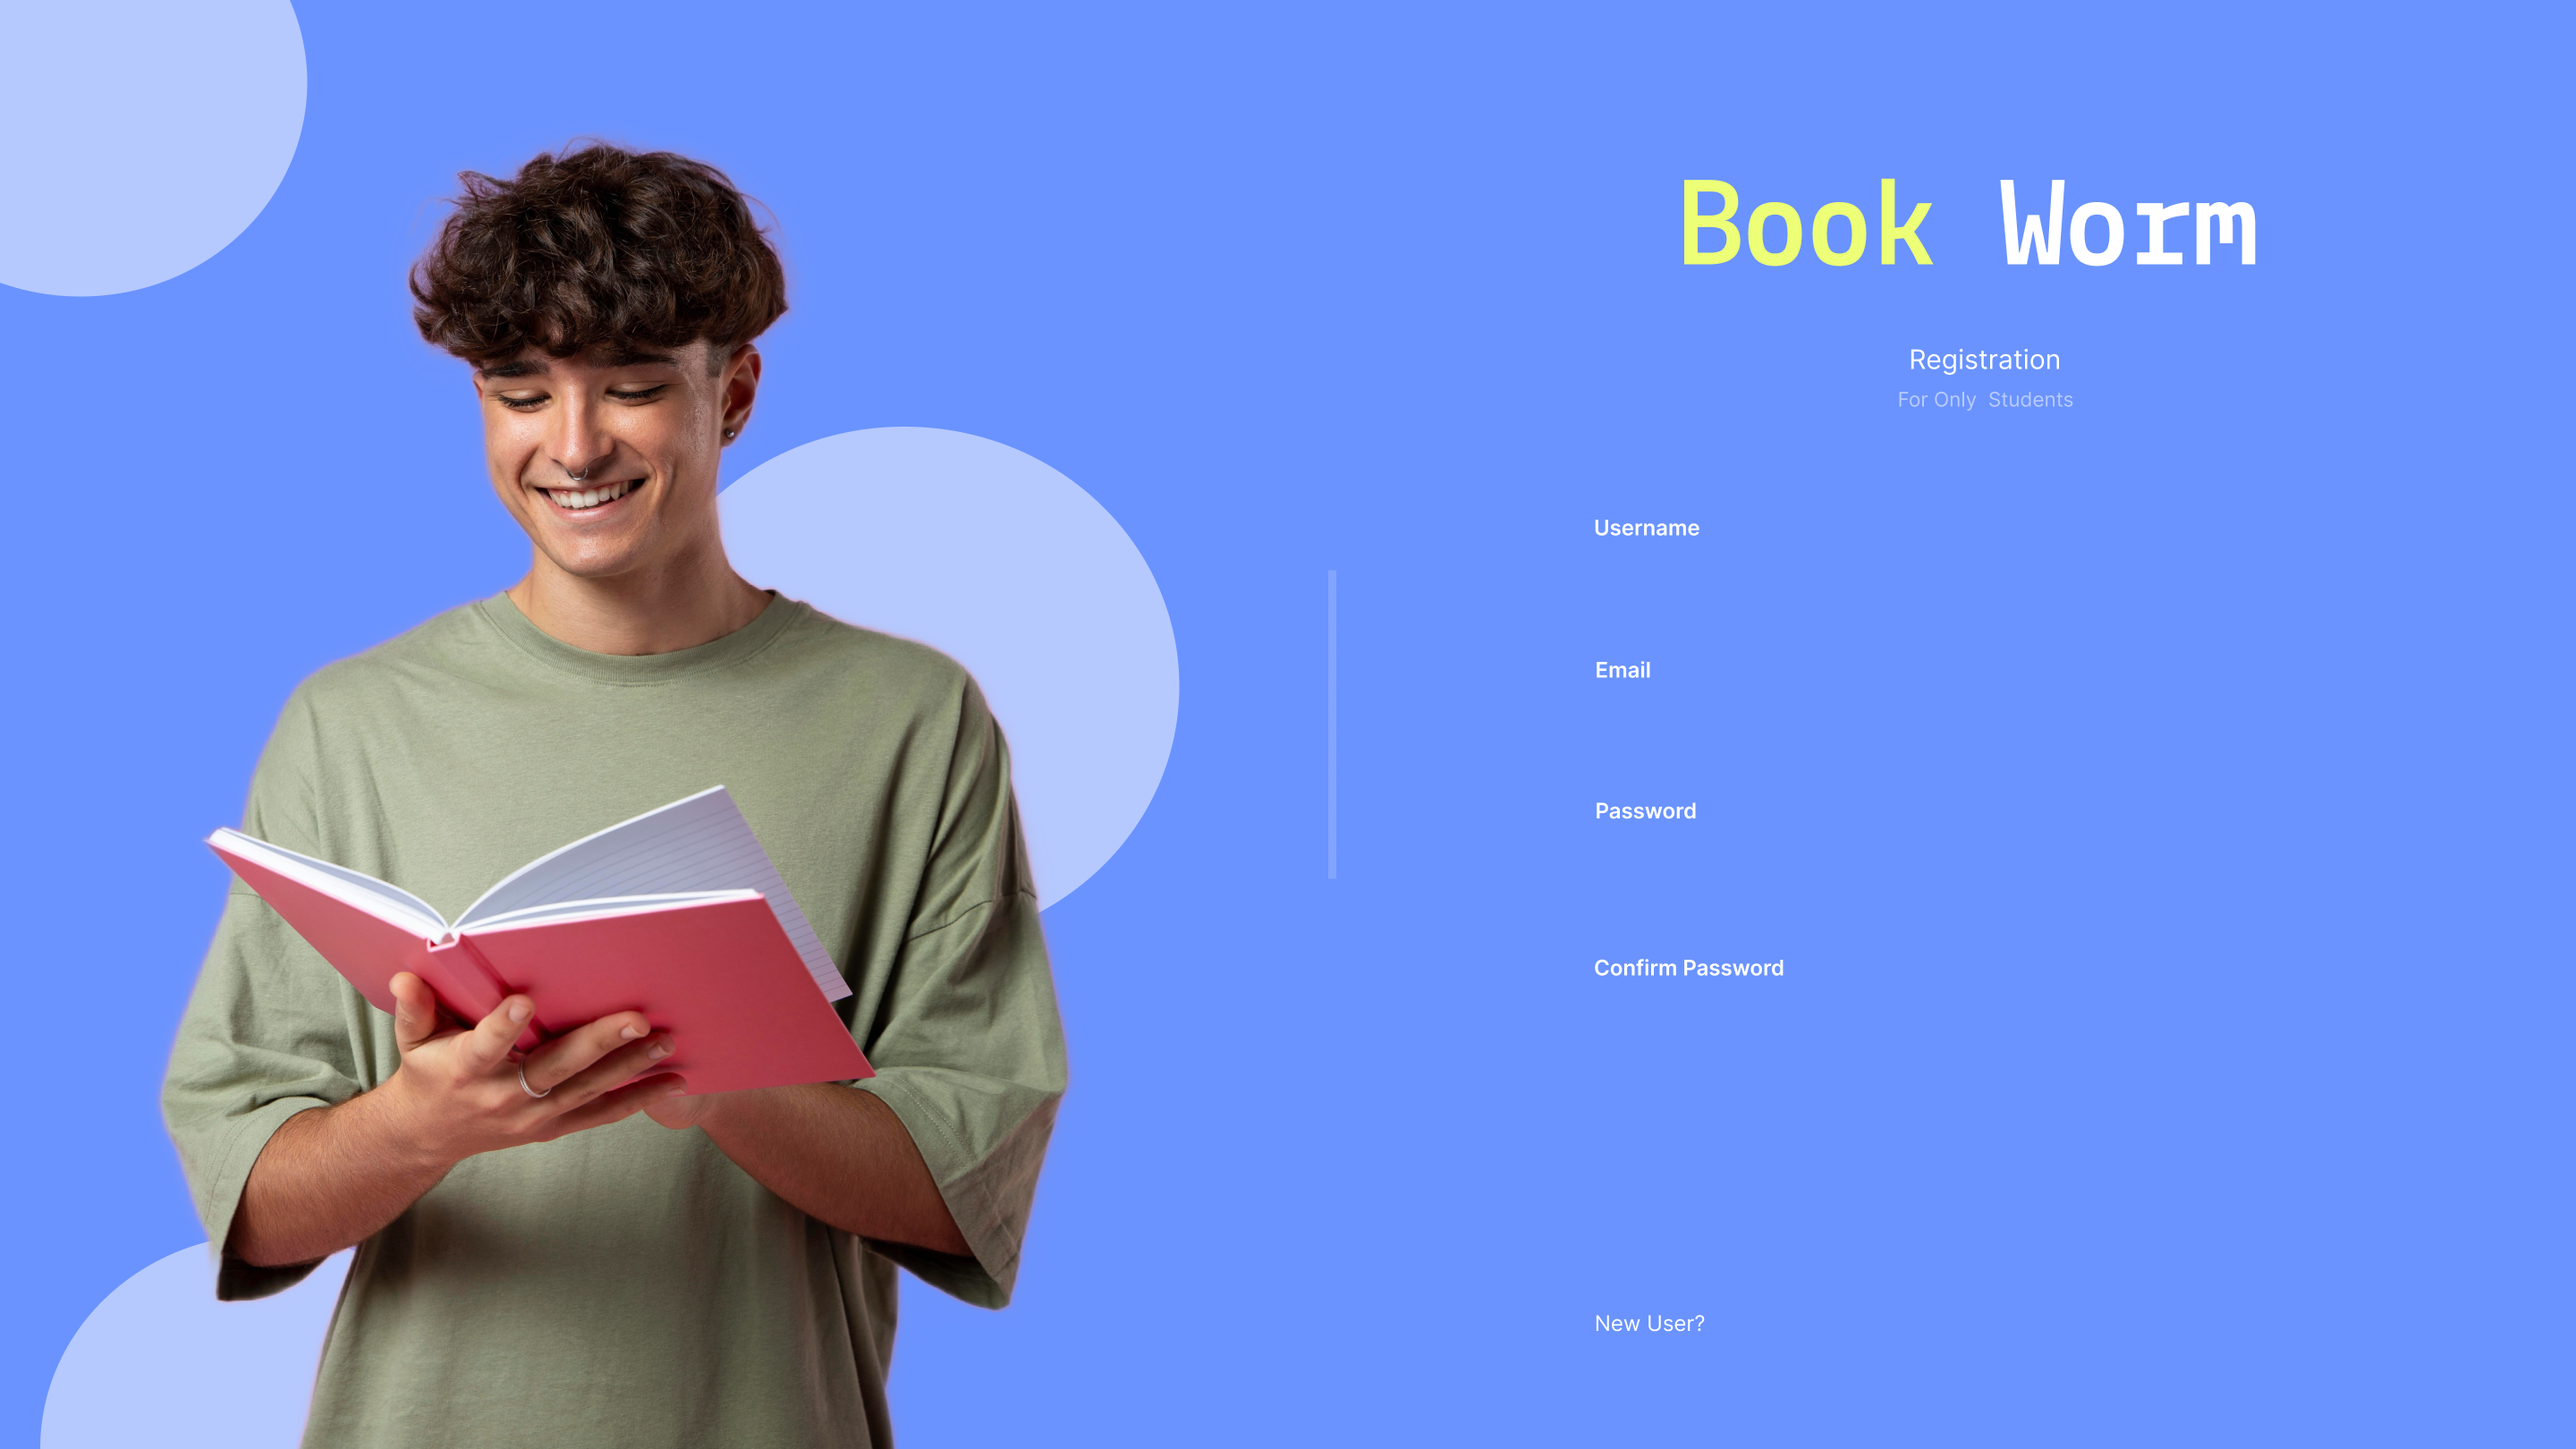
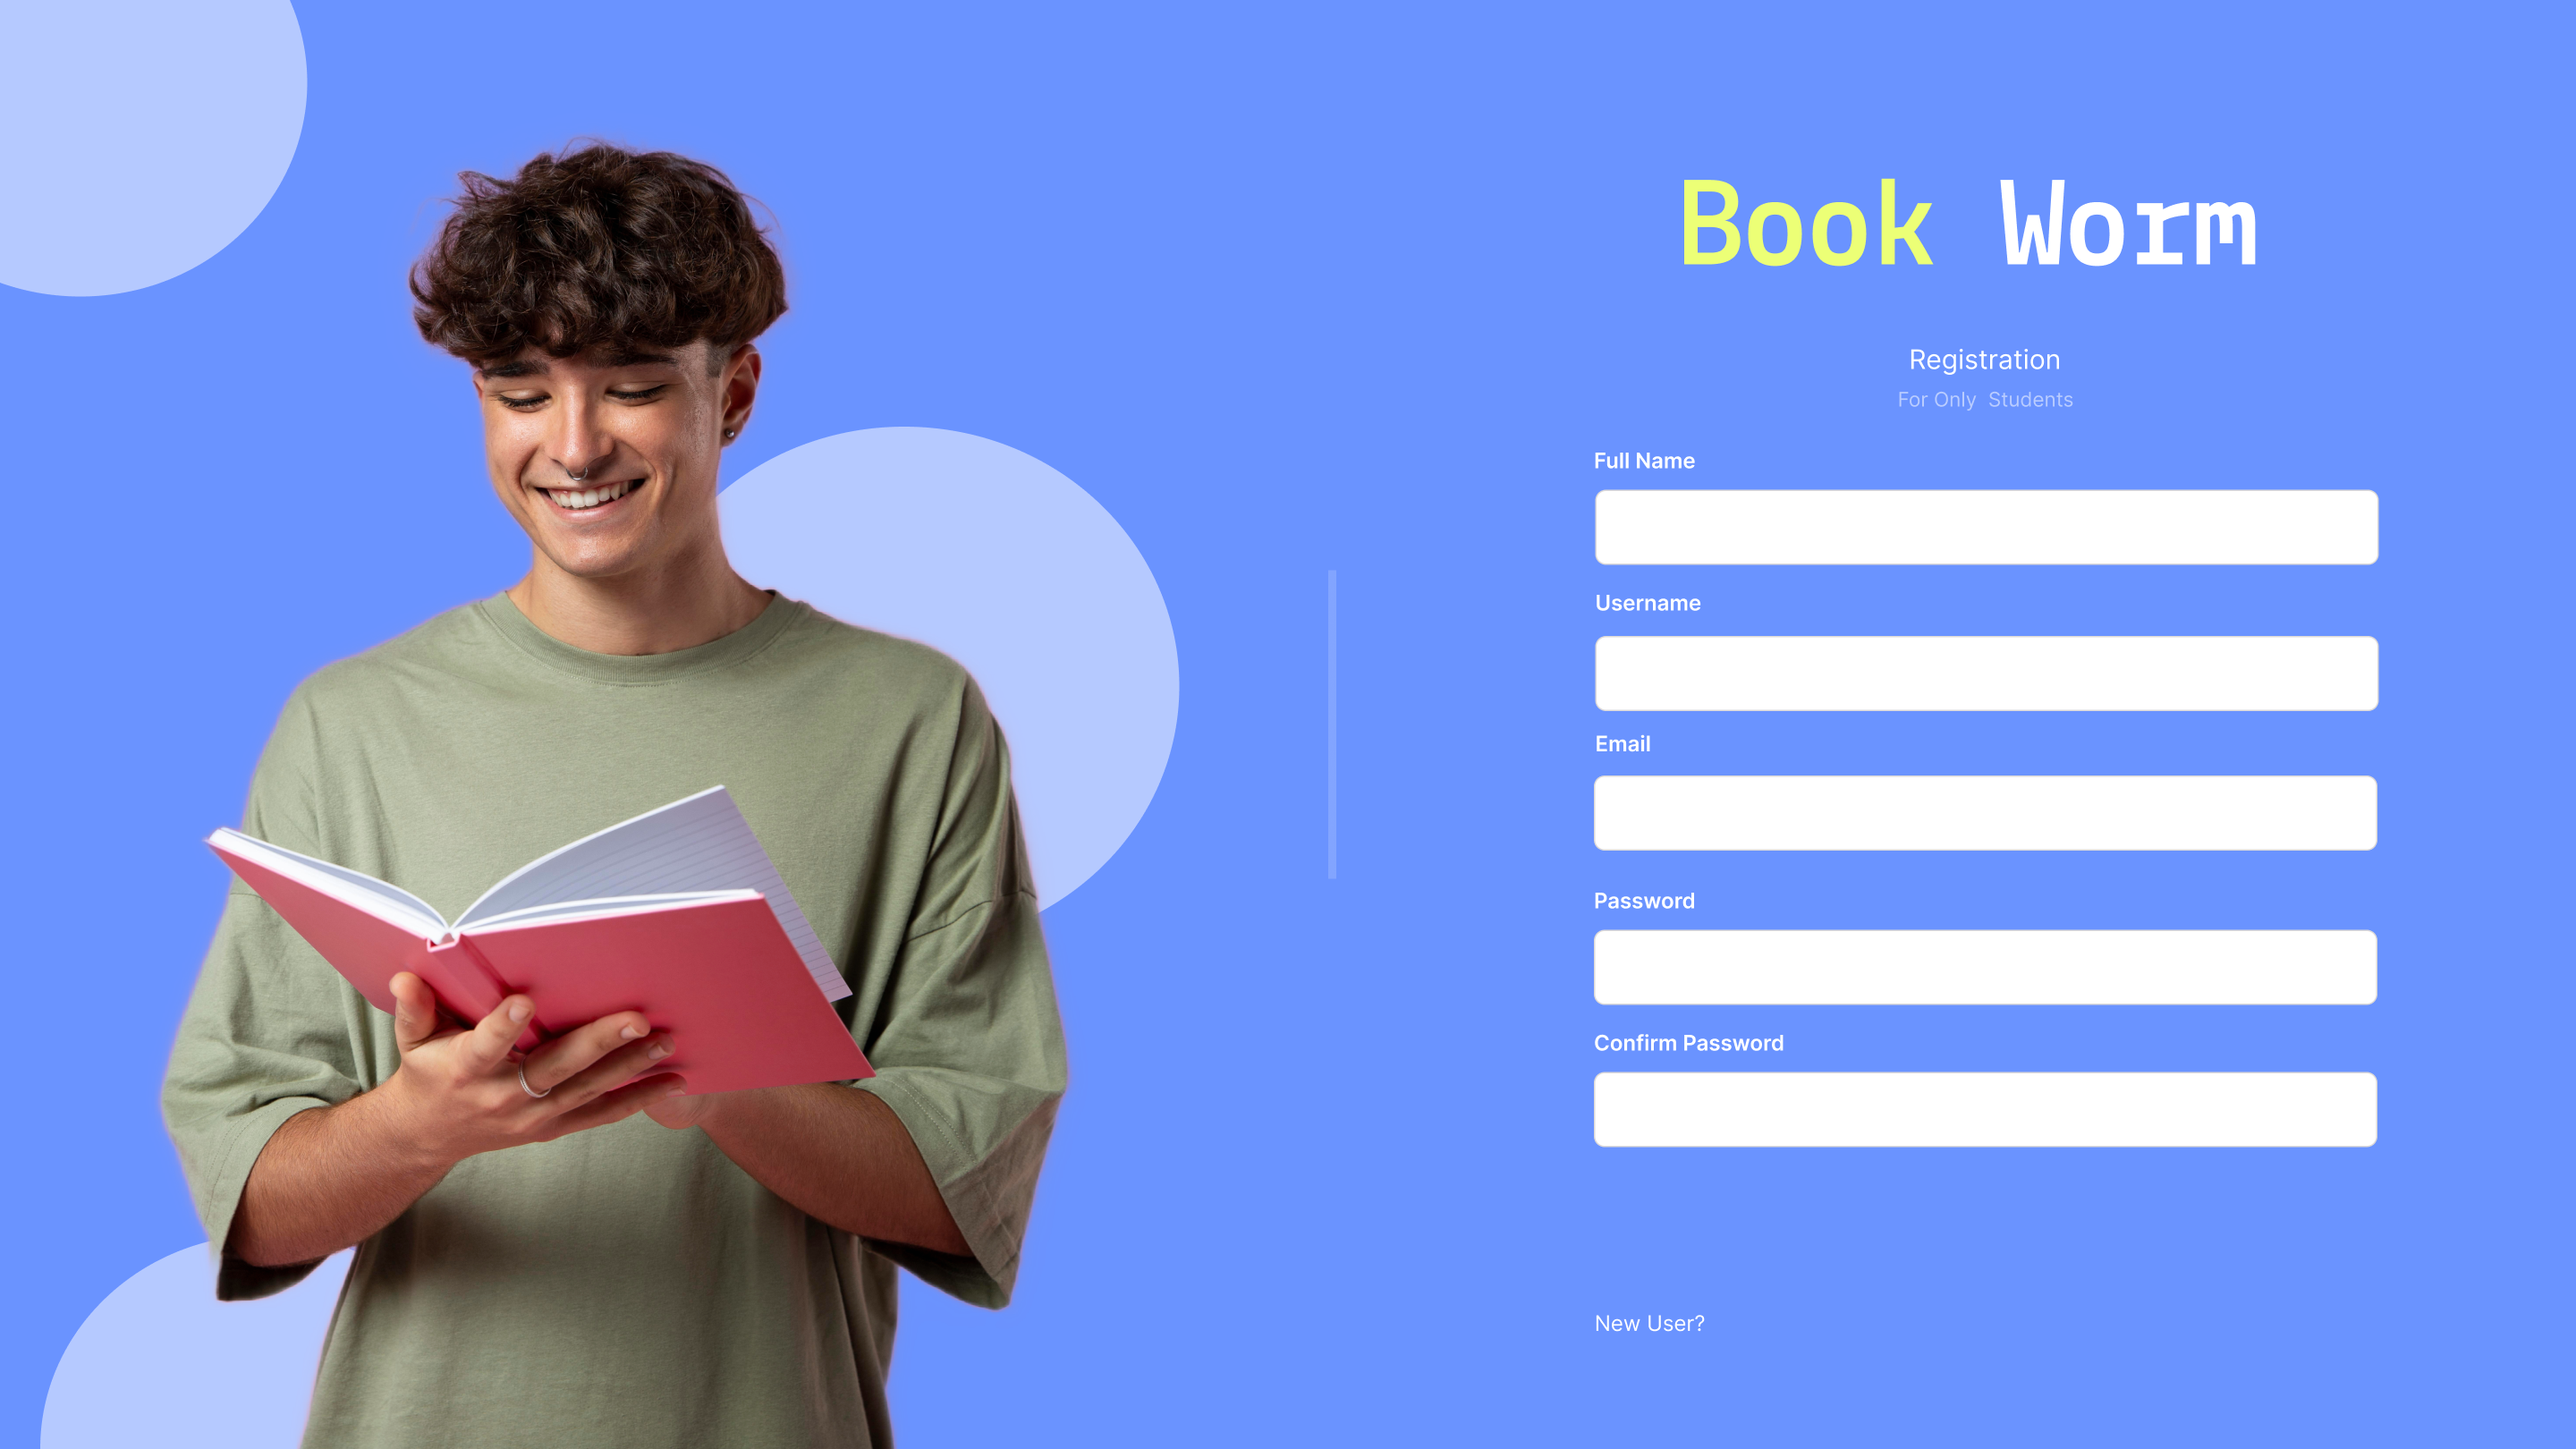
Register Page Update

Changed region(s): [[0.5938, 0.6173, 0.9375, 0.8025], [0.5938, 0.3086, 0.9375, 0.4938], [0.5938, 0.5247, 0.9375, 0.5864]]

diff --git a/src/main/java/org/example/Controller/RegisterPageFormController.java b/src/main/java/org/example/Controller/RegisterPageFormController.java
@@ -24,6 +24,7 @@ import java.util.ResourceBundle;
 
 public class RegisterPageFormController implements Initializable {
 
+    public TextField NameText;
     @FXML
     private PasswordField PasswordConfirm;
 
@@ -109,23 +110,27 @@ public class RegisterPageFormController implements Initializable {
     }
 
     public void RegisterbtnOnActhion(ActionEvent actionEvent) {
-        Parent parent = null;
-        try {
-            Register();
-            parent = FXMLLoader.load(getClass().getResource("/Forms/LoginPage.fxml"));
-        } catch (IOException e) {
-            throw new RuntimeException(e);
-        }
-        Stage stage = (Stage) PasswordConfirm.getScene().getWindow();
-        stage.setScene(new Scene(parent));
-        stage.show();
+        Register();
     }
 
     private void Register() {
-        int register = registerBo.Register(new MemberDto(1, usernameText.getText(), PasswordFild.getText(), emailText.getText()));
+        int register = registerBo.Register(new MemberDto(1,NameText.getText(), usernameText.getText(), PasswordFild.getText(), emailText.getText()));
 
         if (register != -1){
+
             new Alert(Alert.AlertType.INFORMATION,"User Id is : M0"+register).show();
+
+            Parent parent = null;
+
+            try {
+                parent = FXMLLoader.load(getClass().getResource("/Forms/LoginPage.fxml"));
+            } catch (IOException e) {
+                throw new RuntimeException(e);
+            }
+
+            Stage stage = (Stage) PasswordConfirm.getScene().getWindow();
+            stage.setScene(new Scene(parent));
+            stage.show();
         }
         else {
             new Alert(Alert.AlertType.INFORMATION,"Not Complete").show();

diff --git a/src/main/java/org/example/Bo/Custom/RegisterBoImpl.java b/src/main/java/org/example/Bo/Custom/RegisterBoImpl.java
@@ -12,7 +12,7 @@ public class RegisterBoImpl implements RegisterBo {
     MemberDao memberDao = (MemberDao) DaoFactory.getDaoFactory().getDao(DaoFactory.DaoType.Member);
     @Override
     public int Register(MemberDto member) {
-        int saved = memberDao.saved(new Member(member.getId(),member.getName(),member.getPassword(),member.getEmail()));
+        int saved = memberDao.saved(new Member(member.getId(),member.getFull_name(),member.getUsername(),member.getPassword(),member.getEmail()));
         return saved;
     }
 }

diff --git a/src/main/java/org/example/Dto/MemberDto.java b/src/main/java/org/example/Dto/MemberDto.java
@@ -9,7 +9,8 @@ import lombok.NoArgsConstructor;
 @Data
 public class MemberDto {
     private int Id;
-    private String name;
+    private String full_name;
+    private String username;
     private String Password;
     private String Email;
 }

diff --git a/src/main/java/org/example/Entity/Member.java b/src/main/java/org/example/Entity/Member.java
@@ -21,6 +21,9 @@ public class Member {
     @Column(name = "Member_Id")
     private int id;
 
+    @Column(name = "Full_Name")
+    private String full_name;
+
     @Column(name = "Username")
     private String username;
 
